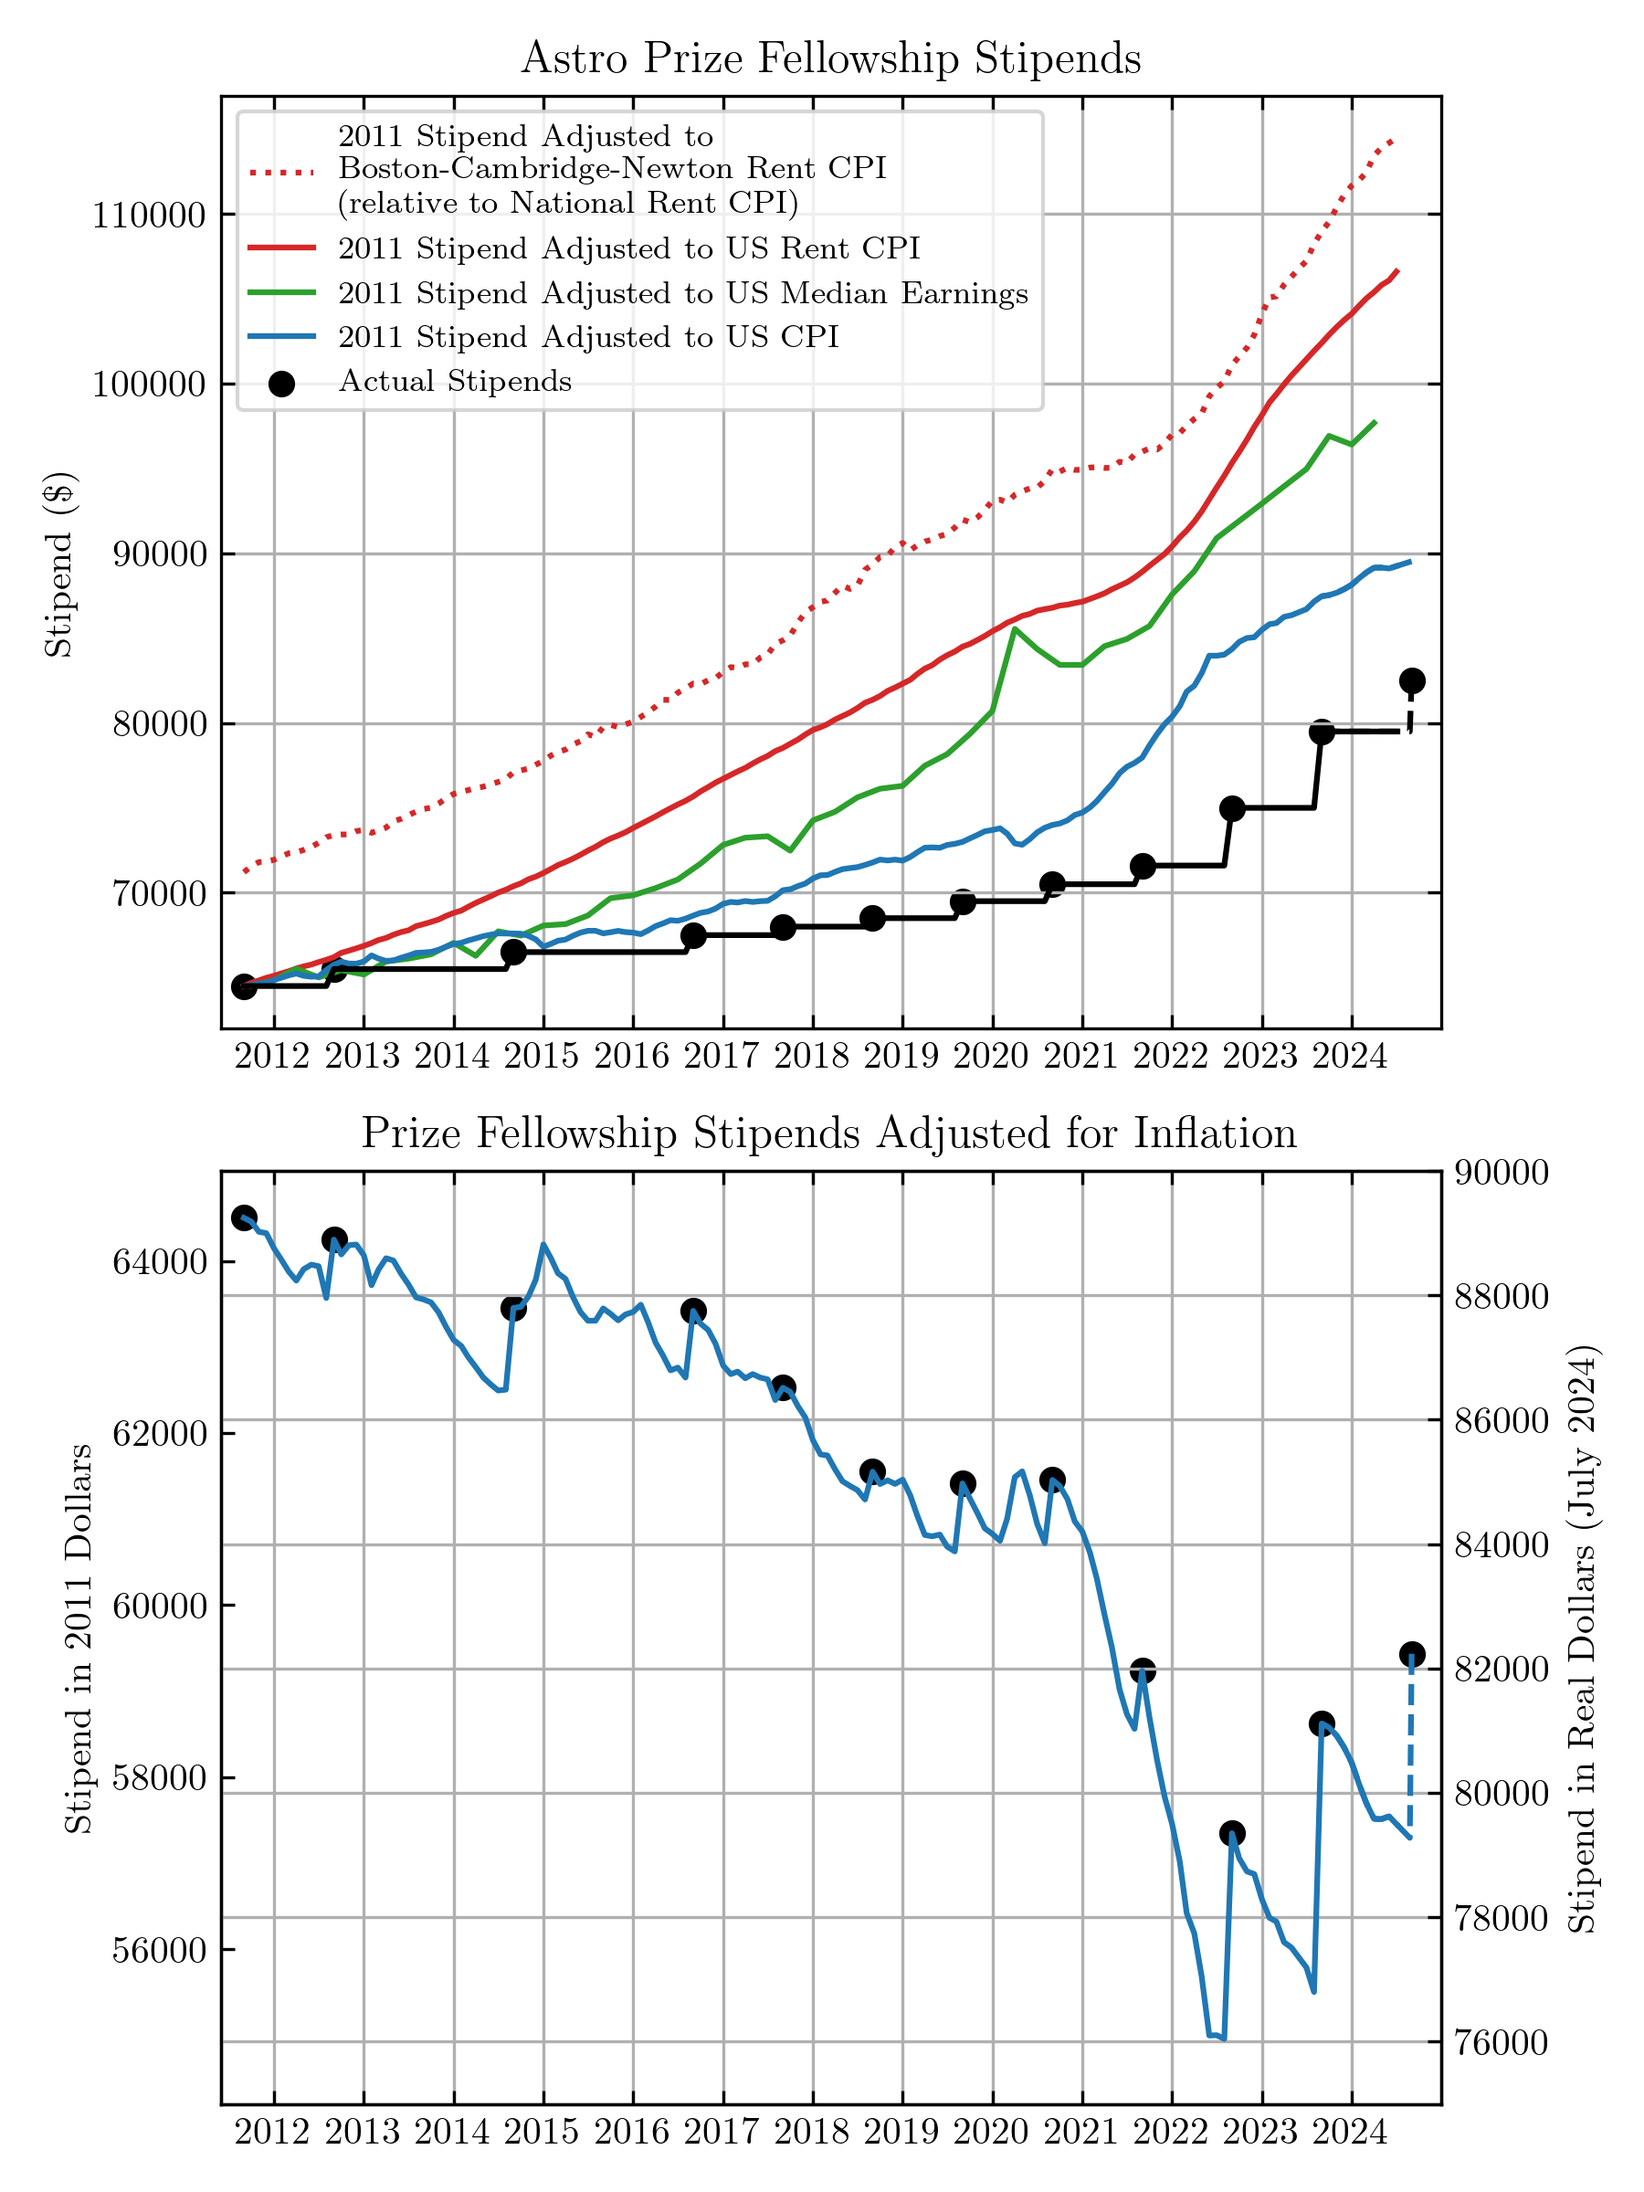
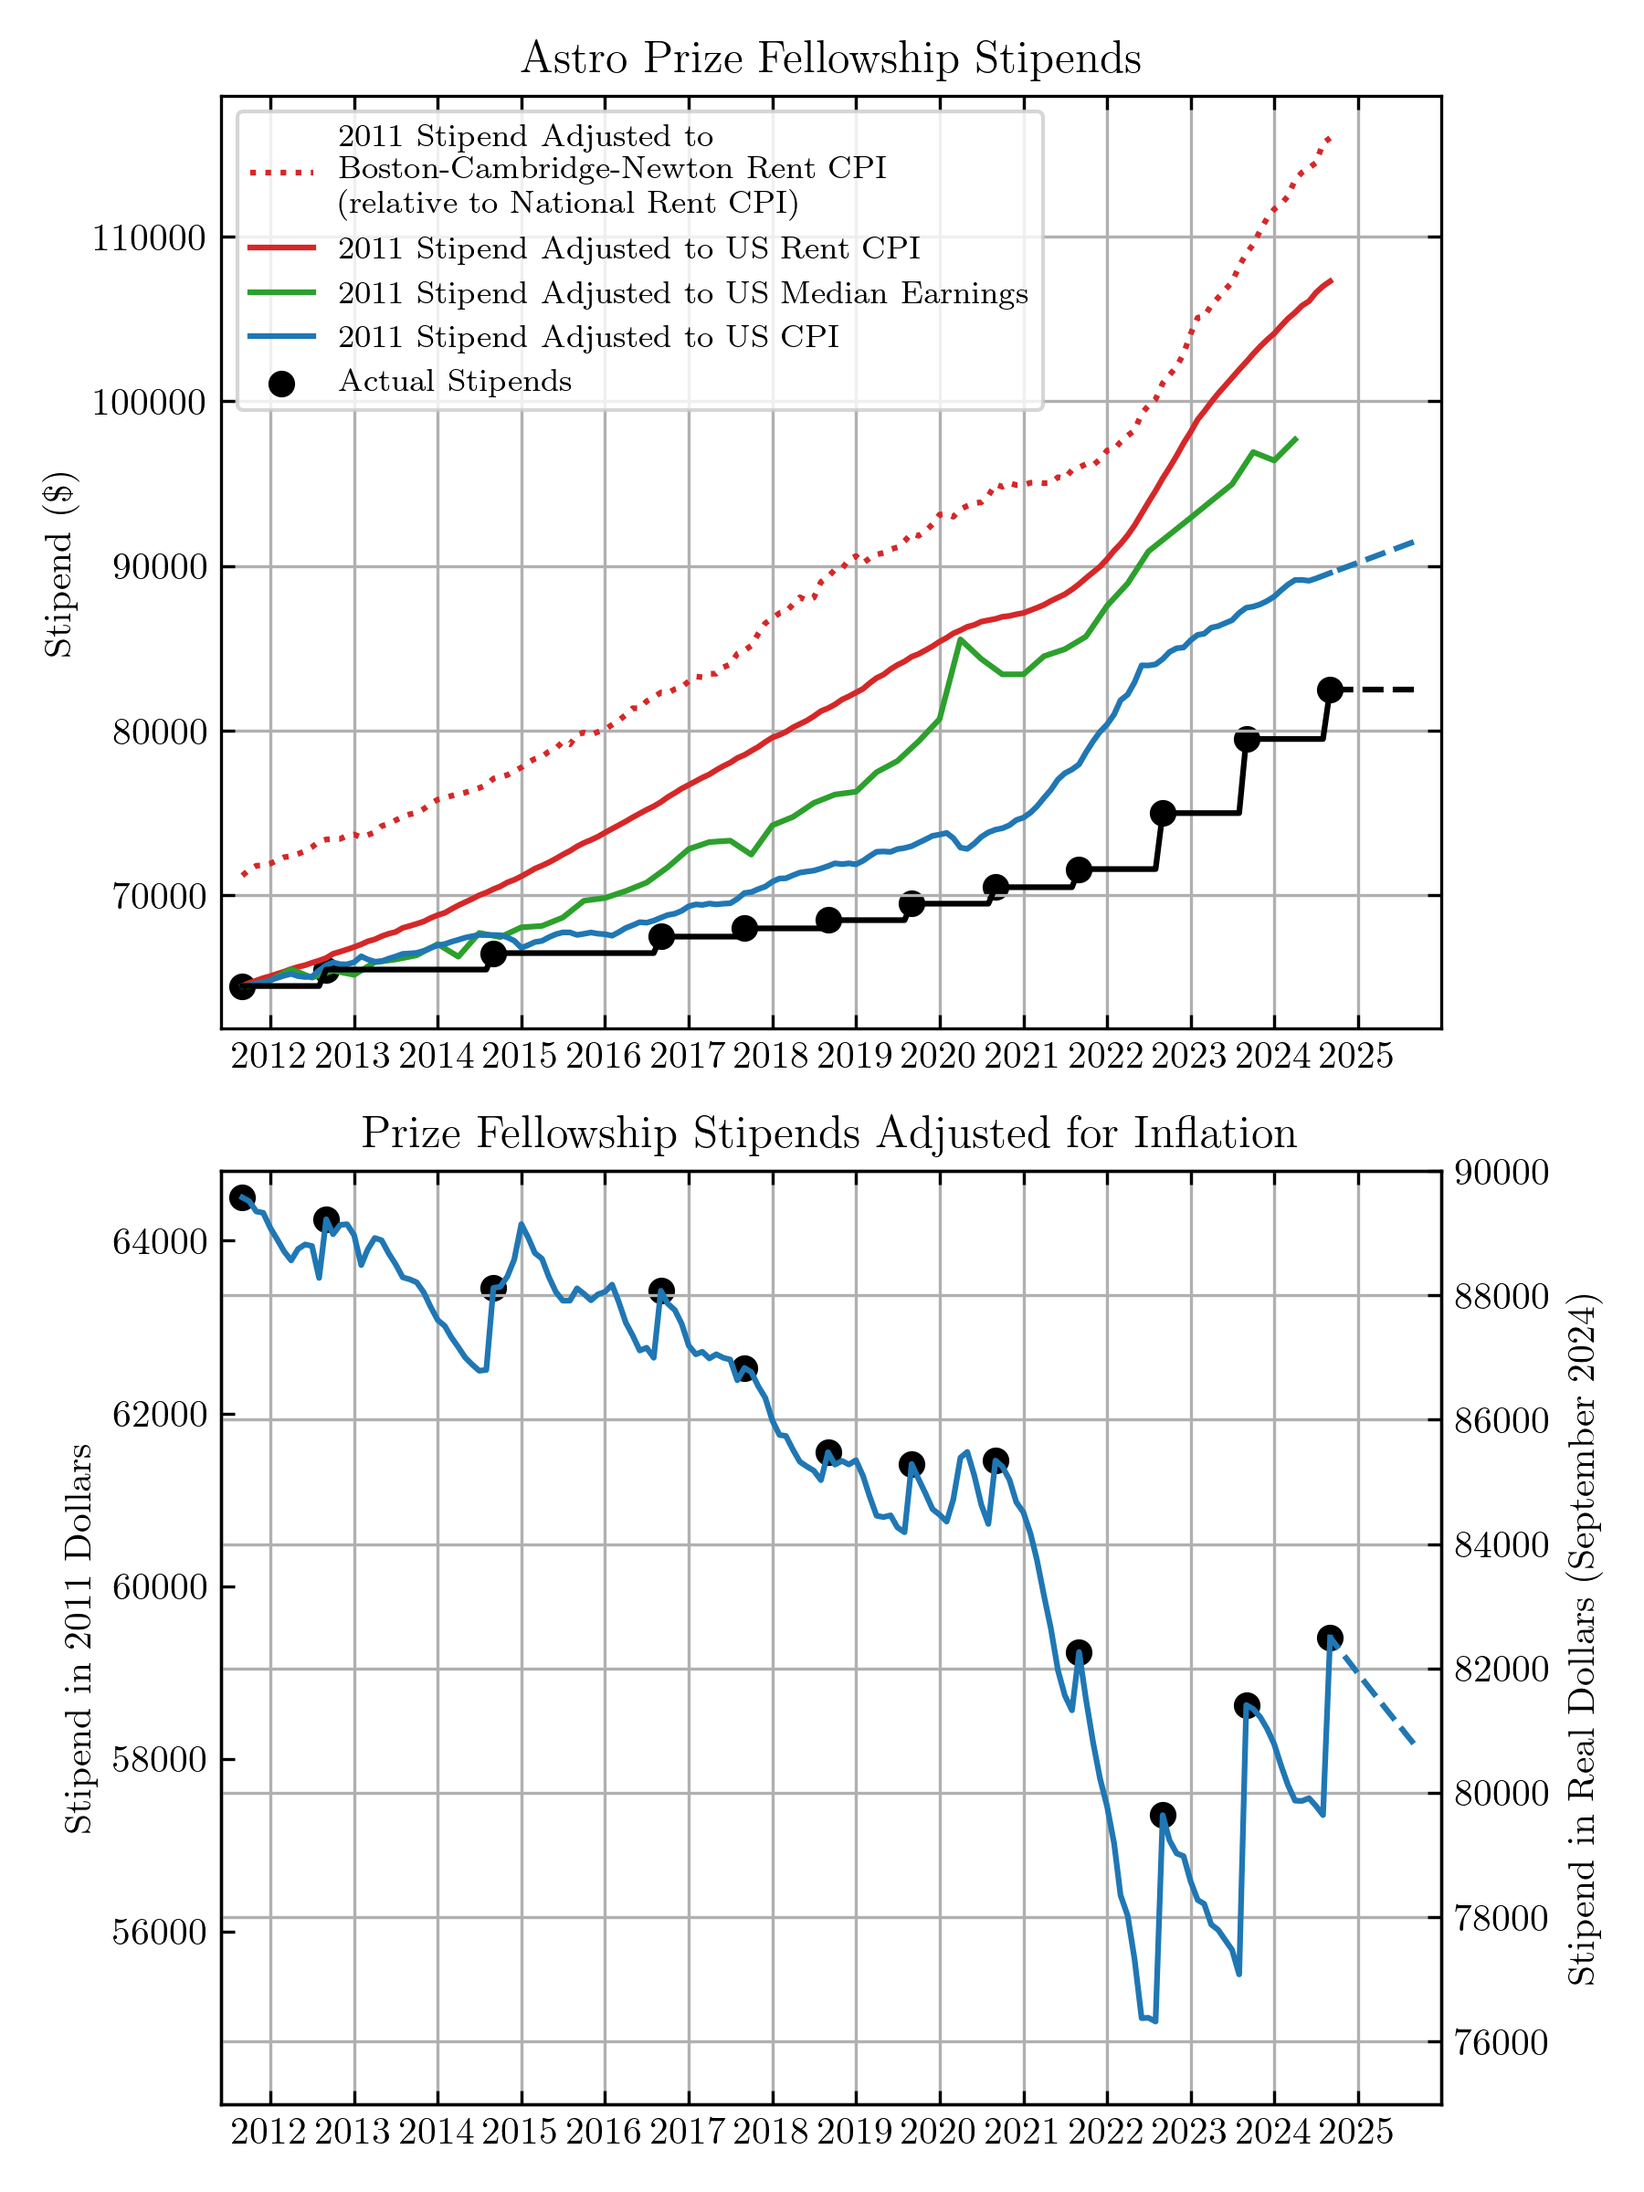
update for Sep 2024 inflation report

diff --git a/plot.py b/plot.py
@@ -74,8 +74,8 @@ ax[0].set_title('Astro Prize Fellowship Stipends')
 ### add in some extrapolations to the end of this academic year
 interp_cpi = interp1d(date,cpi,fill_value='extrapolate')
 interp_rent = interp1d(date,national_rent_cpi,fill_value='extrapolate')
-ext_start = dates.datestr2num('2023-09-01')
-ext_end = dates.datestr2num('2024-09-01')
+ext_start = dates.datestr2num('2024-09-01')
+ext_end = dates.datestr2num('2025-09-01')
 ext_range = np.linspace(ext_end,ext_start) # reverse order for dash linestyle
 ax[0].plot(ext_range,interp_cpi(ext_range),ls='--',c='tab:blue')
 ax[0].plot(ext_range,interp_actual(ext_range),ls='--',c='k')
@@ -89,7 +89,7 @@ ymax = 90000
 ymin = 75000
 ax2 = ax[1].twinx()
 ax2.set_ylim(ymin,ymax)
-ax2.set_ylabel('Stipend in Real Dollars (July 2024)')
+ax2.set_ylabel('Stipend in Real Dollars (September 2024)')
 ax[1].grid(False,axis='y')
 ax[1].set_ylabel('Stipend in 2011 Dollars')
 ax[1].set_ylim(ymin*cpi[0]/cpi[-1],ymax*cpi[0]/cpi[-1])
@@ -114,11 +114,12 @@ ticks = [dates.datestr2num('2012-01-01'),
          dates.datestr2num('2021-01-01'),
          dates.datestr2num('2022-01-01'),
          dates.datestr2num('2023-01-01'),
-         dates.datestr2num('2024-01-01')]
+         dates.datestr2num('2024-01-01'),
+         dates.datestr2num('2025-01-01')]
 
 date_form = dates.DateFormatter("%Y")
 start = dates.datestr2num('2011-06-01')
-end = dates.datestr2num('2025-01-01')
+end = dates.datestr2num('2026-01-01')
 for a in [ax[0],ax[1],ax2]:
     a.set_xticks(ticks)
     a.xaxis.set_major_formatter(date_form)
